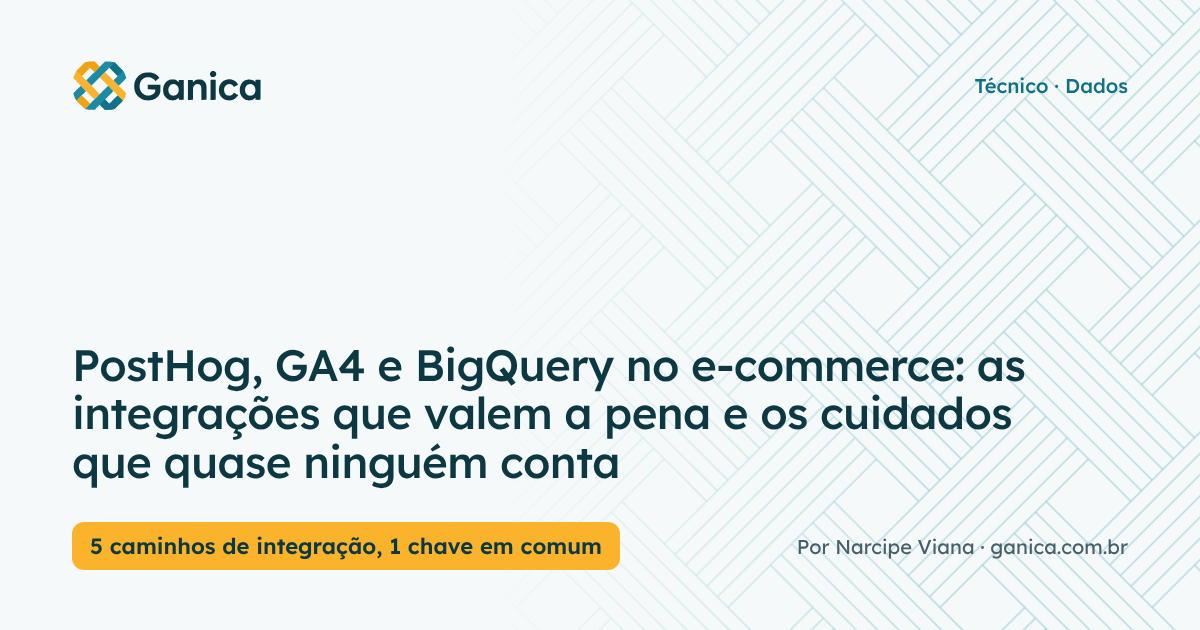
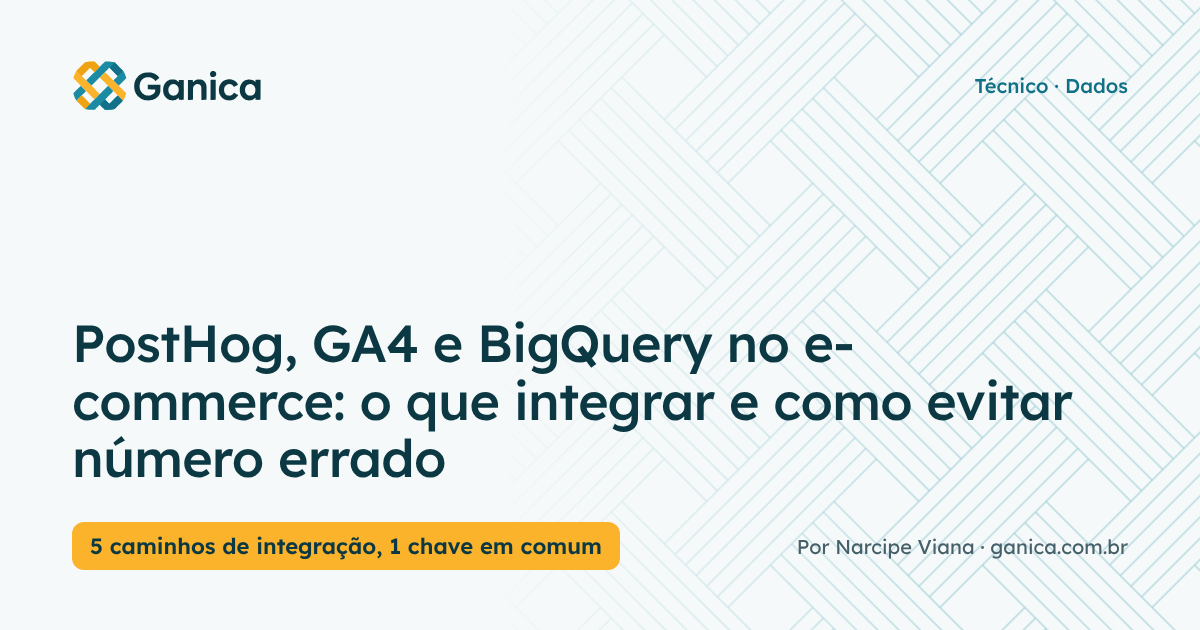
Publica estudo: PostHog, GA4 e BigQuery no e-commerce: o que integrar e como evitar número errado
Claude-Session: https://claude.ai/code/session_01MZ6zKLxkXcqBwrmhNnMCAH

Changed region(s): [[0.0617, 0.5127, 0.8942, 0.7841]]

diff --git a/src/artigos/integrar-posthog-bigquery-ecommerce.md b/src/artigos/integrar-posthog-bigquery-ecommerce.md
@@ -1,20 +1,19 @@
 ---
-title: "PostHog, GA4 e BigQuery no e-commerce: as integrações que valem a pena e os cuidados que quase ninguém conta"
+title: "PostHog, GA4 e BigQuery no e-commerce: o que integrar e como evitar número errado"
 seo_title: "Integrar PostHog e BigQuery: guia para e-commerce"
 og_title: "PostHog, GA4 e BigQuery: como integrar os dados de um e-commerce"
-description: "Os caminhos para integrar PostHog, GA4 e BigQuery num e-commerce, os cuidados técnicos que evitam número errado e onde a IA entra de verdade na análise."
+description: "Como integrar PostHog e BigQuery num e-commerce com GA4: os caminhos, os cuidados que evitam número errado e onde a IA entra de verdade na análise."
 twitter_description: "PostHog para o BigQuery, BigQuery para o PostHog, GA4 no meio. O que cada integração resolve, o que ela quebra e onde a IA ajuda."
 slug: integrar-posthog-bigquery-ecommerce
 date: '2026-11-03'
 updated: '2026-11-03'
-rascunho: true
-publicar_em: '2026-11-03'
+rascunho: false
 breadcrumb: Integrar PostHog e BigQuery
 secao: E-commerce
 card_kicker: "Técnico · Dados"
 card_destaque: "5 caminhos de integração, 1 chave em comum"
-card_titulo: "PostHog, GA4 e BigQuery: as integrações que valem a pena e os cuidados que quase ninguém conta."
-card_resumo: "Um guia técnico, a partir de um projeto real, sobre como juntar comportamento, analytics e pedidos num só lugar sem gerar número errado, e como colocar IA em cima disso com segurança."
+card_titulo: "PostHog, GA4 e BigQuery no e-commerce: o que integrar e como evitar número errado."
+card_resumo: "Um guia técnico, conferido na documentação oficial, sobre como juntar comportamento, analytics e pedidos num só lugar sem gerar número errado, e como colocar IA em cima disso com segurança."
 tags_artigo:
   - analytics
   - PostHog
@@ -33,139 +32,153 @@ sobre:
   - Otimização de conversão (CRO)
   - Inteligência artificial
 imagem_og: ''
-resposta_curta: "Há cinco integrações úteis entre PostHog, GA4 e BigQuery num e-commerce: PostHog para o BigQuery, BigQuery para o PostHog, GA4 para o BigQuery, painéis sobre o BigQuery e assistentes de IA conectados por MCP. Ligar a integração é simples. O que decide se o número presta é deduplicar eventos, tratar dados atrasados e usar uma chave comum entre comportamento e pedido."
-deck: "Juntar o comportamento do visitante, o analytics e os pedidos num só lugar é o que transforma dado em diagnóstico. Este guia mostra os caminhos possíveis, o que aprendemos integrando PostHog e BigQuery num projeto real e os cuidados técnicos que evitam conclusões erradas."
+resposta_curta: "As integrações úteis num e-commerce são cinco: PostHog para o BigQuery, BigQuery para o PostHog, GA4 para o BigQuery, painéis sobre o BigQuery e assistentes de IA por MCP. As que valem a pena primeiro são as duas exportações para o BigQuery. O que decide se o número presta é deduplicar eventos, tratar dados atrasados e usar o ID do pedido como chave comum."
+deck: "Juntar o comportamento do visitante, o analytics e os pedidos num só lugar é o que transforma dado em diagnóstico. Este guia mostra os caminhos possíveis e os cuidados técnicos, conferidos na documentação oficial, que evitam conclusões erradas."
 resumo:
   - "Existem **cinco caminhos** práticos para integrar PostHog, GA4 e BigQuery, e cada um resolve um problema diferente. Escolher pela direção do dado evita retrabalho."
-  - "Num projeto de e-commerce em que atuamos, **integramos o PostHog ao BigQuery** para ter o comportamento do visitante no mesmo lugar dos demais dados da operação."
+  - "Num projeto de e-commerce em que atuamos, **integramos o PostHog ao BigQuery** porque o GA4 apresentava falhas de rastreamento e era preciso uma fonte complementar mais confiável."
   - "A exportação do PostHog pode gerar **eventos duplicados** e organiza os dados por momento de chegada, não do acontecimento. Sem tratar isso, o relatório mente."
-  - "PostHog e GA4 **não compartilham identificador** por padrão. A chave mais segura para cruzar comportamento e venda é o **ID do pedido**."
-  - "A IA entra bem **depois** do modelo de dados: assistentes conectados por MCP ao BigQuery e ao PostHog aceleram a leitura, com acesso só de leitura e sem dado pessoal."
+  - "PostHog e GA4 **não compartilham identificador** por padrão. A chave mais segura para cruzar comportamento e venda é o **ID do pedido**, com os pedidos também no warehouse."
+  - "A IA entra **depois** do modelo de dados: assistentes conectados por MCP aceleram a leitura, mas os controles são diferentes no BigQuery e no PostHog."
 faq:
   - pergunta: "PostHog substitui o GA4 num e-commerce?"
-    resposta: "Na maioria dos casos, não precisa substituir. O GA4 segue útil para aquisição e para a integração com o Google Ads, e o PostHog acrescenta o que o GA4 faz mal, como gravação de sessão, heatmap e análise de funil por pessoa. Juntos no BigQuery, um ajuda a conferir o outro."
+    resposta: "Na leitura da Ganica, na maioria dos casos não precisa substituir. O GA4 segue útil para aquisição e para a integração com o Google Ads, e o PostHog acrescenta gravação de sessão, heatmap e análise de funil por pessoa. Juntos no BigQuery, um ajuda a conferir o outro."
   - pergunta: "Quanto custa exportar o GA4 para o BigQuery?"
-    resposta: "A exportação diária é gratuita em si, mas o armazenamento e as consultas no BigQuery são cobrados conforme o uso, e existe um ambiente sandbox gratuito com limites. Segundo a documentação do Google Analytics, a exportação em streaming adiciona 0,05 dólar por GB, e propriedades padrão exportam até 1 milhão de eventos por dia no modo diário."
+    resposta: "Depende do volume. Segundo a Central de Ajuda do Google Analytics, o BigQuery cobra armazenamento e processamento de consultas conforme o uso, e a exportação em streaming adiciona 0,05 dólar por GB. Segundo a documentação do BigQuery, o sandbox gratuito tem cota vitalícia de 10 GiB de armazenamento, não devolvida ao apagar dados, e 1 TiB de consultas por mês, com tabelas que expiram em 60 dias e sem streaming. Na leitura da Ganica, ele serve para teste, não para histórico."
   - pergunta: "Por que os números do PostHog, do GA4 e da plataforma da loja nunca batem?"
-    resposta: "Porque cada um conta coisas diferentes, de jeitos diferentes. O GA4 aplica processamento próprio nos relatórios, o PostHog depende do script carregar no navegador, e a plataforma registra o pedido no servidor. Diferença pequena e estável é normal; diferença grande ou que muda de um dia para o outro é sinal de falha de rastreamento."
+    resposta: "Porque cada um conta de um jeito. Segundo o Google, o export do GA4 pode diferir da interface, que aplica processamento próprio; GA4 e PostHog instalados por script dependem do navegador do visitante, e a plataforma registra o pedido no servidor. Na leitura da Ganica, diferença pequena e estável é esperada, e diferença que muda de um dia para o outro pede investigação antes de qualquer conclusão."
   - pergunta: "É seguro conectar uma IA aos dados de analytics da loja?"
-    resposta: "Pode ser, com três cuidados: uma identidade separada para o assistente, permissão só de leitura e nenhuma tabela com dado pessoal identificável ao alcance dele. O servidor MCP do BigQuery, por exemplo, tem uma ferramenta de consulta somente leitura e registra o uso em log de auditoria."
-fontes: "Experiência da Ganica em projeto de e-commerce com PostHog e BigQuery (sem identificação do cliente). Documentação oficial do PostHog: Batch exports, BigQuery destination, Linking BigQuery as a source, Session replay privacy controls e Model Context Protocol (MCP). Documentação oficial do Google: GA4 BigQuery Export (Central de Ajuda do Google Analytics) e Use the BigQuery remote MCP server (Google Cloud). Todas consultadas em novembro de 2026; recursos e preços dessas ferramentas mudam com frequência."
+    resposta: "Pode ser, com os controles certos em cada ferramenta. Segundo o Google Cloud, o assistente deve ter identidade separada, e uma política de negação pode restringir `execute_sql`, a única ferramenta MCP do BigQuery que não é somente leitura. Segundo a documentação do PostHog, o modo só leitura é opcional e as chamadas devem ser revisadas antes de executar, por causa do risco de injeção de prompt. A recomendação da Ganica é manter dado pessoal fora do alcance do assistente."
+fontes: "Experiência da Ganica em projeto de e-commerce com PostHog e BigQuery (sem identificação da empresa). Documentação oficial do PostHog: Batch exports, BigQuery destination, Linking BigQuery as a source, Session replay privacy controls, Controlling data collection, Data storage, Events, Identifying users, Model Context Protocol (MCP), MCP FAQ, Data warehouse MCP e Pricing. Documentação oficial do Google: BigQuery Export, Set up BigQuery Export e BigQuery Export schema (Central de Ajuda do Google Analytics); Estimate and control costs, Query partitioned tables, sandbox, Use the BigQuery MCP server e release notes (Google Cloud). Lei 13.709/2018 (LGPD), arts. 5º, 7º e 33, e página da ANPD para titulares. Tudo consultado em novembro de 2026; recursos e preços dessas ferramentas mudam com frequência."
 fontes_urls:
   - https://posthog.com/docs/data-pipelines/batch-exports
   - https://posthog.com/docs/data-pipelines/batch-exports/bigquery
   - https://posthog.com/docs/data-pipelines/sources/bigquery
   - https://posthog.com/docs/session-replay/privacy
-  - https://posthog.com/docs/mcp
+  - https://posthog.com/docs/privacy/data-collection
+  - https://posthog.com/docs/privacy/data-storage
+  - https://posthog.com/docs/data/events
+  - https://posthog.com/docs/product-analytics/identify
+  - https://posthog.com/docs/model-context-protocol
+  - https://posthog.com/docs/model-context-protocol/faq
+  - https://posthog.com/docs/data-warehouse/surfaces/mcp
+  - https://posthog.com/pricing
   - https://support.google.com/analytics/answer/9358801
+  - https://support.google.com/analytics/answer/9823238
+  - https://support.google.com/analytics/answer/7029846
+  - https://docs.cloud.google.com/bigquery/docs/best-practices-costs
+  - https://docs.cloud.google.com/bigquery/docs/querying-partitioned-tables
+  - https://docs.cloud.google.com/bigquery/docs/sandbox
   - https://docs.cloud.google.com/bigquery/docs/use-bigquery-mcp
+  - https://docs.cloud.google.com/bigquery/docs/release-notes
+  - https://www.planalto.gov.br/ccivil_03/_ato2015-2018/2018/lei/l13709.htm
+  - https://www.gov.br/anpd/pt-br/assuntos/titular-de-dados-1
 cta_titulo: "Seus números de analytics estão contando a mesma história?"
-cta_texto: "Antes de qualquer teste, um diagnóstico de CRO confere se o rastreamento da sua loja é confiável e monta a base de dados que sustenta as decisões."
-autor_texto: "Sou consultor de CRO focado em e-commerce, com trabalho direto em estrutura de analytics (GTM, GA4, PostHog, BigQuery, Looker Studio) e auditoria comportamental. Este guia nasce do que aplico nos projetos: antes de analisar, garantir que o dado conta a verdade."
+cta_texto: "Antes de qualquer teste, um diagnóstico de CRO confere se o rastreamento da sua loja é confiável e mapeia onde a conversão está sendo perdida."
+autor_texto: "Sou consultor de CRO focado em e-commerce, com trabalho direto em estrutura de analytics (GTM, GA4, PostHog, BigQuery, Looker Studio) e auditoria comportamental. Meu princípio é simples: antes de analisar, garantir que o dado conta a verdade."
 ---
 
 ## Por que levar o comportamento do visitante para um data warehouse?
 
-Porque nenhuma ferramenta sozinha conta a história inteira de uma venda. O GA4 é bom em aquisição, o PostHog é bom em comportamento (gravação de sessão, heatmap, funil por pessoa) e a plataforma da loja é a única fonte confiável do pedido. Um data warehouse é um banco de dados feito para análise, onde essas fontes se encontram e podem ser cruzadas com SQL.
+Na leitura da Ganica, integrar PostHog e BigQuery faz sentido porque nenhuma ferramenta sozinha conta a história inteira de uma venda. O GA4 é bom em aquisição, o PostHog é bom em comportamento (gravação de sessão, heatmap, funil por pessoa) e a plataforma da loja é a fonte do pedido. Um data warehouse é um banco de dados feito para análise, onde essas fontes podem ser cruzadas com SQL.
 
-O BigQuery, do Google Cloud, é a escolha mais comum nesse cenário porque o GA4 já exporta para ele nativamente. Com o PostHog no mesmo lugar, surgem perguntas que nenhuma ferramenta responde sozinha, como "quem travou no frete na gravação de sessão comprou depois, por outro canal?".
-
-Na Ganica, o gatilho para esse tipo de projeto costuma ser o mesmo: o GA4 da operação apresenta falhas de rastreamento, e a equipe precisa de uma segunda fonte confiável para conferir os números antes de decidir qualquer coisa. Já mostramos em [outro estudo](/conversao-checkout-mobile-funil-por-dispositivo.html) como uma falha na medição da compra pode se disfarçar de problema de checkout.
+O BigQuery, do Google Cloud, é um destino natural nesse cenário porque o GA4 exporta para ele nativamente. Com o PostHog e os pedidos da loja no mesmo lugar, surge uma pergunta que nenhuma ferramenta responde sozinha: dos pedidos pagos, quantos o GA4 deixou de registrar, e o PostHog viu essas compras?
 
 ## Quais são os caminhos para integrar PostHog, GA4 e BigQuery?
 
-São cinco caminhos práticos, e o que diferencia cada um é a direção do dado. Escolher pela pergunta que você quer responder evita montar a integração errada.
+São cinco caminhos práticos: PostHog para o BigQuery, BigQuery para o PostHog, GA4 para o BigQuery, BigQuery para o Looker Studio e IA conectada por MCP. A recomendação da Ganica é começar pelas duas exportações para o BigQuery, porque painéis e IA dependem delas.
 
 | Caminho | Para que serve |
 |---|---|
-| **1. PostHog para o BigQuery (exportação em lote)** | Levar eventos, pessoas e sessões do PostHog para o warehouse e cruzar com pedidos, GA4 e CRM com SQL. |
-| **2. BigQuery para o PostHog (fonte do data warehouse)** | Trazer tabelas do warehouse, como pedidos ou cadastro, para analisar dentro do PostHog junto com o comportamento. |
+| **1. PostHog para o BigQuery (exportação em lote)** | Cruzar eventos, pessoas e sessões com pedidos e GA4 usando SQL. |
+| **2. BigQuery para o PostHog (fonte do data warehouse)** | Analisar tabelas como pedidos dentro do PostHog, junto com o comportamento. |
 | **3. GA4 para o BigQuery (exportação nativa)** | Ter o dado bruto do GA4, por evento, sem a amostragem e o processamento dos relatórios. |
-| **4. BigQuery para o Looker Studio** | Painéis para o time e para a diretoria, a partir de tabelas já tratadas no warehouse. |
-| **5. IA conectada por MCP ao BigQuery e ao PostHog** | Fazer perguntas em linguagem natural sobre os dados, com o assistente consultando as tabelas diretamente. |
+| **4. BigQuery para o Looker Studio** | Painéis para o time e a diretoria, a partir de tabelas tratadas. |
+| **5. IA conectada por MCP ao BigQuery e ao PostHog** | Fazer perguntas em linguagem natural, com o assistente consultando os dados. |
 
-**Exportação em lote do PostHog.** Segundo a documentação do PostHog, as exportações em lote enviam dados com frequências que vão de 5 minutos até semanal, para destinos como BigQuery, Snowflake, Redshift, Postgres e S3. Há três modelos de dado: eventos, que são imutáveis; pessoas, que mudam ao longo do tempo; e sessões. No BigQuery, a tabela de eventos é criada particionada por dia na coluna `timestamp`.
+**Exportação em lote do PostHog.** Segundo a documentação do PostHog, as exportações em lote enviam dados com frequências que vão de 5 minutos até semanal, para destinos como BigQuery, Snowflake, Redshift, Postgres e S3. Os modelos principais são eventos, que são imutáveis, pessoas, que mudam com o tempo, e sessões. No BigQuery, a tabela de eventos é criada particionada por dia na coluna `timestamp`.
 
-**BigQuery como fonte do PostHog.** O caminho inverso usa uma conta de serviço do Google Cloud com permissão de leitura e escrita num conjunto de dados. A documentação do PostHog alerta que o teste de conexão só valida a leitura: uma permissão de escrita faltando passa no teste e falha na primeira sincronização.
+**BigQuery como fonte do PostHog.** O caminho inverso usa uma conta de serviço do Google Cloud com permissão de leitura e escrita num conjunto de dados. A documentação do PostHog alerta que o teste de conexão só valida a leitura, de modo que uma permissão de escrita faltando passa no teste e falha na primeira sincronização. A mesma documentação informa que o modo sandbox do BigQuery não é suportado nesse caminho.
 
-**GA4 para o BigQuery.** Segundo a Central de Ajuda do Google Analytics, a exportação diária traz o dado bruto do dia anterior, sem horário garantido, e propriedades padrão têm limite de 1 milhão de eventos por dia. A exportação em streaming deixa o dia corrente disponível em minutos, sem garantia de completude e com custo adicional de 0,05 dólar por GB.
+**GA4 para o BigQuery.** Segundo a Central de Ajuda do Google Analytics, a exportação diária traz o dado bruto do dia anterior, sem horário garantido, e propriedades padrão têm limite de 1 milhão de eventos por dia. Se a propriedade passa desse limite de forma consistente, o Google avisa que a exportação diária é pausada e que os dias anteriores não são reprocessados. Segundo o Google, a exportação em streaming entrega o dia corrente em minutos, sem garantia de completude, por 0,05 dólar adicional por GB.
 
 ## O que fizemos num projeto real com PostHog e BigQuery?
 
-Num projeto de e-commerce em que atuamos, integramos o PostHog ao BigQuery para que o comportamento do visitante ficasse no mesmo lugar dos demais dados da operação. O objetivo não era ter mais um painel, e sim poder conferir uma fonte com a outra e responder perguntas que exigem cruzar comportamento com venda.
-
-O que esse tipo de projeto ensina é que ligar a integração é a parte fácil. O trabalho que decide se o número presta vem depois: entender como cada ferramenta registra o dado, onde elas divergem e qual campo junta as duas pontas. As próximas seções reúnem os cuidados que separam uma integração útil de uma que só produz números conflitantes.
-
-> Integrar ferramentas leva minutos. Fazer os números contarem a mesma história é o projeto de verdade.
+Num projeto de e-commerce em que atuamos, integramos o PostHog ao BigQuery porque o GA4 apresentava falhas de rastreamento e a busca era por uma fonte complementar mais confiável. A leitura da Ganica é que ligar a integração é a parte fácil. O que decide se o número presta vem depois: entender onde as ferramentas divergem e qual campo junta as duas pontas.
 
 ## Quais cuidados técnicos evitam números errados?
 
-Os cuidados que mais pesam são os que a documentação menciona de passagem e quase ninguém aplica. Em ordem de impacto:
+Seis cuidados, reunidos pela Ganica a partir da documentação do PostHog e do Google, evitam números errados: deduplicar eventos, contar com dados atrasados, partir da tabela de eventos, planejar colunas novas, filtrar pela partição e fechar números na tabela diária do GA4.
 
 1. **Deduplique os eventos.** A documentação do PostHog avisa que a exportação pode gerar duplicatas e recomenda deduplicar no destino. Cada evento tem um `uuid` único: use-o numa visão ou tabela tratada antes de qualquer contagem.
-2. **Conte com dados atrasados.** Segundo o PostHog, os dados entram em cada lote pelo momento em que chegaram ao PostHog, não pelo momento em que aconteceram. Um evento de ontem pode chegar no lote de hoje. Relatórios que fecham o dia cedo demais subcontam.
-3. **Não espere o visitante anônimo na tabela de pessoas.** A exportação de pessoas só inclui quem tem perfil. A maior parte dos visitantes de um e-commerce é anônima, e as análises de funil precisam partir da tabela de eventos.
-4. **Planeje propriedades novas.** O PostHog avisa que campos novos não são adicionados sozinhos às tabelas de destino. Exportar as propriedades como JSON, opção marcada na criação, evita perder dados quando o time de tecnologia cria uma propriedade nova.
-5. **Filtre pela partição.** O BigQuery cobra pelo volume lido. Toda consulta deve filtrar pela data da partição, ou uma pergunta simples pode varrer o histórico inteiro.
-6. **Use a tabela diária do GA4 para fechar números.** A tabela de streaming do GA4 é provisória e pode ter lacunas. Para relatório, use a tabela diária, e lembre que o próprio Google avisa que os números do export podem diferir dos relatórios da interface.
+2. **Conte com dados atrasados.** Segundo o PostHog, os dados entram em cada lote pelo momento em que chegaram ao PostHog, não pelo momento em que aconteceram. Relatórios que fecham o dia cedo demais subcontam.
+3. **Não espere o visitante anônimo na tabela de pessoas.** Segundo o PostHog, a exportação de pessoas só inclui quem tem perfil de pessoa. As análises de funil precisam partir da tabela de eventos.
+4. **Planeje colunas novas.** O PostHog avisa que campos novos dos modelos de exportação não são adicionados sozinhos às tabelas de destino: é preciso criar a coluna manualmente. As propriedades de evento ficam na coluna `properties`, em JSON ou texto, conforme a opção da exportação.
+5. **Filtre pela partição.** No modelo sob demanda, o BigQuery cobra pelo volume lido, e a documentação do Google Cloud diz que filtrar pela coluna de partição reduz esse volume.
+6. **Use a tabela diária do GA4 para fechar números.** O Google orienta consultar `events_YYYYMMDD`, e não a tabela provisória `events_intraday_YYYYMMDD`, avisa que os números do export podem diferir da interface e informa que tabelas diárias ainda recebem eventos atrasados por até 2 dias corridos, além de hoje.
 
-A recomendação da Ganica é transformar esses seis pontos numa camada de tabelas tratadas antes de qualquer análise, para que ninguém tire conclusão da tabela bruta.
+A recomendação da Ganica é transformar esses pontos numa camada de tabelas tratadas antes de qualquer análise.
 
 ## Como ligar o comportamento do PostHog ao pedido e ao GA4?
 
-A forma mais segura é usar o ID do pedido como chave comum. Por padrão, PostHog e GA4 não compartilham identificador: o PostHog usa o `distinct_id` dele, o GA4 usa o `user_pseudo_id` dele, e um visitante anônimo aparece como pessoas diferentes em cada ferramenta.
+A recomendação da Ganica é ligar comportamento e venda pelo ID do pedido, usado como chave comum, com a base de pedidos da loja também no BigQuery. Por padrão, as duas ferramentas não compartilham identificador: segundo a documentação de cada uma, o GA4 usa `user_pseudo_id` e o PostHog usa `distinct_id`. Na leitura da Ganica, um visitante anônimo vira dois registros sem ligação.
 
-Três caminhos, do mais confiável ao mais frágil:
+Há três formas de ligar as pontas, da mais confiável à mais frágil, na avaliação da Ganica:
 
-1. **ID do pedido nos dois.** Envie o mesmo `transaction_id` no evento de compra do GA4 e numa propriedade do evento de compra no PostHog. Ele liga as duas ferramentas à base de pedidos da loja, que é a fonte da verdade.
-2. **ID do cliente após o login.** Quando o cliente se identifica, o mesmo identificador interno pode ser enviado como `user_id` no GA4 e na identificação do PostHog. Funciona bem para quem compra logado, e não alcança quem compra como visitante.
-3. **ID do navegador de uma ferramenta guardado na outra.** É possível, mas frágil: depende de cookies, que o navegador pode apagar, e exige cuidado redobrado com consentimento.
+1. **ID do pedido nos dois.** Envie o mesmo `transaction_id` no evento de compra do GA4 e numa propriedade do evento de compra no PostHog. A chave liga as ferramentas à base de pedidos, mas só existe para quem comprou.
+2. **ID do cliente após o login.** Quando o cliente se identifica, o mesmo identificador interno pode ser enviado como `user_id` no GA4 e na identificação do PostHog. Não alcança quem compra como visitante.
+3. **ID do navegador de uma ferramenta guardado na outra.** É frágil: depende de cookies e exige cuidado redobrado com consentimento.
 
-Com a chave definida, a pergunta que mais importa para CRO fica fácil de responder: dos pedidos que entraram na loja, quantos o PostHog e o GA4 registraram, e onde cada um perdeu? É a mesma conferência que aplicamos ao [funil por dispositivo](/conversao-checkout-mobile-funil-por-dispositivo.html), agora com três fontes.
+Com a chave definida e os pedidos no warehouse, dá para responder quantos pedidos o PostHog e o GA4 registraram e onde cada um perdeu. O método é o mesmo cruzamento por `transaction_id` descrito no [estudo sobre funil por dispositivo](/conversao-checkout-mobile-funil-por-dispositivo.html), aqui com três fontes.
 
 ## Onde a IA entra de verdade na análise?
 
-A IA entra depois do modelo de dados, nunca antes. Com as tabelas tratadas e a chave comum definida, um assistente conectado por MCP consegue consultar o BigQuery e o PostHog e responder perguntas em linguagem natural. MCP (Model Context Protocol) é um padrão aberto que permite a um assistente de IA usar ferramentas externas, como um banco de dados, com permissões controladas.
+Na leitura da Ganica, a IA entra depois do modelo de dados, nunca antes. Com as tabelas tratadas e a chave comum definida, um assistente conectado por MCP consulta os dados e responde em linguagem natural. MCP (Model Context Protocol) é um padrão aberto que permite a um assistente de IA usar ferramentas externas, como um banco de dados, com permissões controladas.
 
-Os dois lados já oferecem servidor MCP oficial:
+BigQuery e PostHog oferecem servidor MCP oficial, cada um sobre os próprios dados:
 
-- **BigQuery.** Segundo a documentação do Google Cloud, o servidor MCP remoto do BigQuery permite listar conjuntos de dados e tabelas e executar SQL, com uma ferramenta específica só de leitura. As consultas têm limite de três minutos e de 3.000 linhas por resposta.
-- **PostHog.** Segundo a documentação do PostHog, o servidor MCP permite a um assistente consultar dados com SQL, gerenciar flags e experimentos e investigar erros. Conectar é gratuito, mas ferramentas que usam IA internamente podem ser cobradas e exigem o processamento de dados por IA habilitado na organização.
+- **BigQuery.** Segundo o Google Cloud, o servidor MCP lista tabelas e executa SQL, com a ferramenta `execute_sql_readonly` só de leitura, limite padrão de três minutos por consulta e máximo de 3.000 linhas por resultado.
+- **PostHog.** Segundo a documentação do PostHog, o servidor MCP consulta dados com SQL, gerencia flags e experimentos e investiga erros. Conectar é gratuito, mas ferramentas que usam IA internamente podem ser cobradas.
 
-Na Ganica, usamos assistentes conectados por MCP para a primeira leitura dos dados de um diagnóstico: perguntar em que etapa o funil caiu esta semana, por dispositivo e por meio de pagamento, e receber a consulta pronta junto com o resultado. O ganho é de velocidade. A interpretação continua humana, porque o assistente não sabe que uma campanha mudou ou que o checkout foi alterado na terça.
+A recomendação da Ganica é usar assistentes conectados por MCP na primeira leitura dos dados: perguntar em que etapa o funil caiu esta semana, por dispositivo e por meio de pagamento, e receber a consulta pronta junto com o resultado. O ganho é de velocidade. A interpretação continua humana.
 
-Três regras de segurança valem para qualquer configuração:
+A recomendação da Ganica são três regras de segurança, com controles diferentes em cada ferramenta:
 
-- **Uma identidade separada para o assistente**, como recomenda o próprio Google, para controlar e auditar o acesso.
-- **Somente leitura.** O assistente consulta; quem altera tabelas é um processo revisado.
-- **Nenhum dado pessoal ao alcance.** Exponha ao assistente só as tabelas tratadas, sem nome, e-mail, telefone ou IP.
+- **Uma identidade separada para o assistente**, como recomenda a documentação do Google Cloud.
+- **Somente leitura.** No BigQuery, segundo o Google Cloud, `execute_sql` é a única ferramenta MCP que não é somente leitura e pode ser restringida por política de negação; os papéis pedidos são MCP Tool User, BigQuery Job User e BigQuery Data Viewer. No PostHog, segundo a documentação do MCP, o modo só leitura é opcional e se ativa pelo cabeçalho `x-posthog-read-only` ou pelo parâmetro `readonly`.
+- **Dado pessoal fora do alcance.** No BigQuery, exponha ao assistente só as tabelas tratadas, sem nome, e-mail, telefone ou IP. No PostHog, a documentação informa que o MCP alcança tabelas vinculadas do warehouse, então sincronize só tabelas tratadas e não capture o que não é necessário.
+
+A documentação do PostHog também alerta para o risco de injeção de prompt e orienta revisar as chamadas antes de executar.
 
 ## O que a LGPD exige numa integração como essa?
 
-A LGPD exige tratar como dado pessoal tudo o que identifica alguém, e uma integração de analytics leva esse dado para mais um lugar. Na prática, três pontos merecem atenção:
+A LGPD trata como dado pessoal toda informação relacionada a pessoa natural identificada ou identificável (art. 5º, I, da Lei 13.709/2018), e cada integração leva esse dado para mais um lugar. O tratamento precisa de hipótese legal (art. 7º), e a transferência internacional só é permitida nos casos previstos (art. 33). Na prática, quatro pontos merecem atenção:
 
-1. **Gravação de sessão.** Segundo a documentação do PostHog, os campos de formulário são mascarados por padrão, mas o texto da página não. Em áreas como "minha conta" e confirmação de pedido, mascare o texto ou use a classe `ph-no-capture`, que substitui o elemento por um bloco na gravação. O mascaramento acontece no navegador, antes do envio.
-2. **IP na tabela exportada.** A tabela de eventos exportada para o BigQuery tem uma coluna de IP. Se a análise não precisa dele, configure o projeto do PostHog para não guardar o IP, ou remova a coluna na camada tratada.
-3. **Acesso.** No BigQuery, quem acessa o quê é controlado por permissões. Separe a tabela bruta, de acesso restrito, das tabelas tratadas, que o time e os assistentes de IA consultam.
+1. **Gravação de sessão.** Segundo a documentação do PostHog, os campos de formulário são mascarados por padrão, mas o texto da página não. Em áreas como "minha conta" e confirmação de pedido, mascare o texto ou use a classe `ph-no-capture`, que substitui o elemento por um bloco na gravação.
+2. **IP e propriedades exportadas.** A tabela de eventos exportada para o BigQuery tem uma coluna `ip`, e o PostHog permite configurar o projeto para descartar o IP. Na leitura da Ganica, remover só a coluna pode não bastar: a propriedade `$ip` e `person_properties` também merecem revisão.
+3. **Identificadores.** `transaction_id`, `user_id` e `distinct_id` não mostram um nome, mas podem ser religados à base de pedidos. A Ganica recomenda tratá-los como dado pessoal.
+4. **Acesso.** No BigQuery, quem acessa o quê é controlado por permissões. Separe a tabela bruta, de acesso restrito, das tabelas tratadas.
 
 Este guia não é orientação jurídica. Em operações com dados sensíveis, como saúde, vale ouvir um especialista em proteção de dados antes de começar.
 
-## Por onde começar?
+## Por onde começar a integrar PostHog e BigQuery?
 
-Comece pela pergunta de negócio, não pela ferramenta. Uma ordem que funciona:
+A recomendação da Ganica é começar pela pergunta de negócio, não pela ferramenta, nesta ordem:
 
-1. **Escreva as três perguntas** que hoje ninguém consegue responder. Por exemplo: em que etapa o celular perde, quais visitantes voltam para comprar, quanto o GA4 está deixando de registrar.
-2. **Audite o rastreamento** antes de exportar qualquer coisa. Dado errado no warehouse continua errado, só fica mais caro.
-3. **Ative a exportação do GA4 para o BigQuery**, que é nativa e começa a acumular histórico a partir do dia da ativação.
-4. **Configure a exportação do PostHog** com eventos em JSON e frequência compatível com o uso. Para análise de CRO, diária ou horária costuma bastar.
-5. **Defina a chave comum** (o ID do pedido) e garanta que ela está nos eventos de compra das duas ferramentas.
-6. **Monte a camada tratada**, com deduplicação, janela para dados atrasados e sem dados pessoais.
+1. **Escreva as três perguntas** que hoje ninguém consegue responder. Por exemplo: quanto o GA4 está deixando de registrar.
+2. **Audite o rastreamento** antes de exportar qualquer coisa.
+3. **Ative a exportação do GA4 para o BigQuery**, que é nativa e, segundo o Google, começa a enviar dados em até 24 horas depois do vínculo. Confira antes se a propriedade cabe no limite diário.
+4. **Configure a exportação do PostHog** com as colunas de propriedades em JSON e frequência compatível com o uso.
+5. **Leve os pedidos da loja para o BigQuery** e garanta o ID do pedido nos eventos de compra das duas ferramentas.
+6. **Monte a camada tratada**, com deduplicação, janela para dados atrasados e sem dados pessoais diretos.
 7. **Só então conecte painéis e IA**, com acesso só de leitura às tabelas tratadas.
 
-Essa sequência, da auditoria à base que sustenta as decisões, é parte do que um [diagnóstico de CRO](/#diagnostico) entrega.
+A auditoria do passo 2 é parte do que um [diagnóstico de CRO](/#diagnostico) entrega.
 
 ## O que ainda não sabemos
 
-Custos e recursos dessas ferramentas mudam com frequência. A página de exportações em lote do PostHog não informa preço, e a documentação do servidor MCP do BigQuery não informa se ele está em versão final ou de prévia, então vale conferir antes de contratar. As informações deste guia foram conferidas na documentação oficial em novembro de 2026.
+Custos e recursos dessas ferramentas mudam com frequência. Em novembro de 2026, a tabela de preços do PostHog trazia 1 milhão de linhas gratuitas por mês nas exportações em lote e cobrança por linha acima disso. As notas de versão do BigQuery registram o servidor MCP como disponibilidade geral desde abril de 2026.
 
-Também não existe um padrão de mercado para quanto o PostHog e o GA4 devem divergir. A diferença aceitável depende da loja, do consentimento de cookies e de bloqueadores de anúncios. O que dá para afirmar é que uma diferença que muda muito de um dia para o outro quase sempre indica falha de rastreamento, e é por ela que qualquer análise deve começar.
+Também não encontramos um padrão de mercado para quanto o PostHog e o GA4 devem divergir. A diferença aceitável depende da loja, do consentimento e de bloqueadores de anúncios. Na leitura da Ganica, uma diferença que muda muito de um dia para o outro pede investigação antes de qualquer conclusão.
+
+Este guia reúne um caso e a documentação oficial. Ele não mede ganho de conversão.
